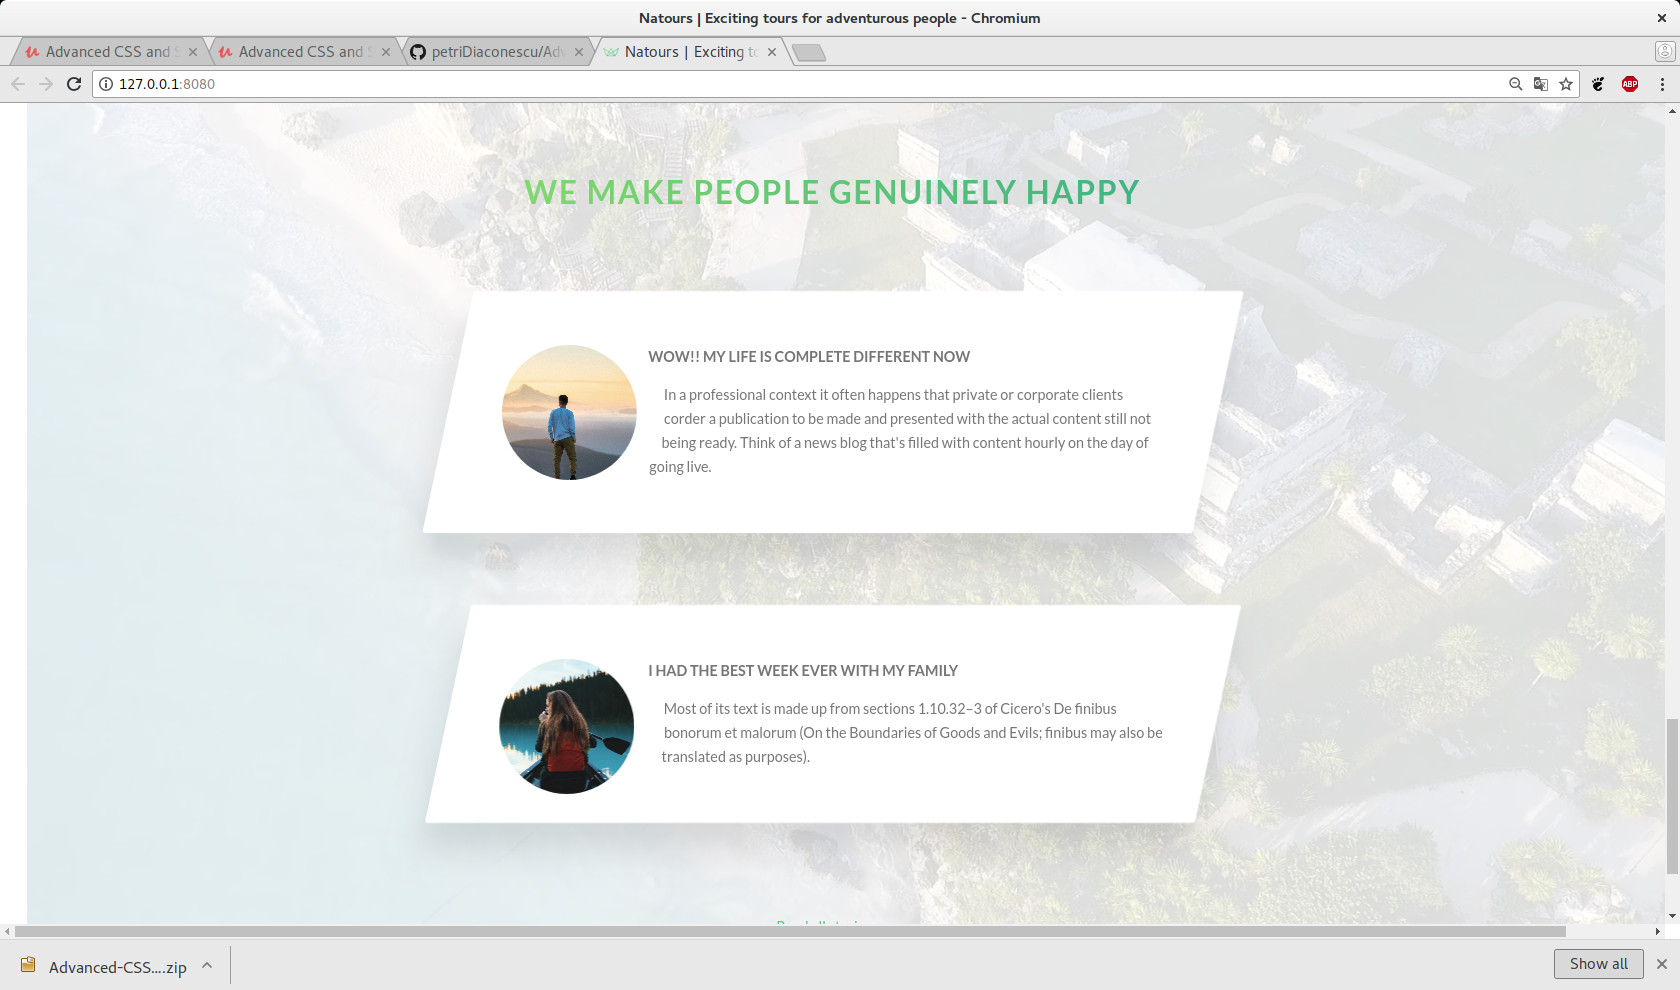
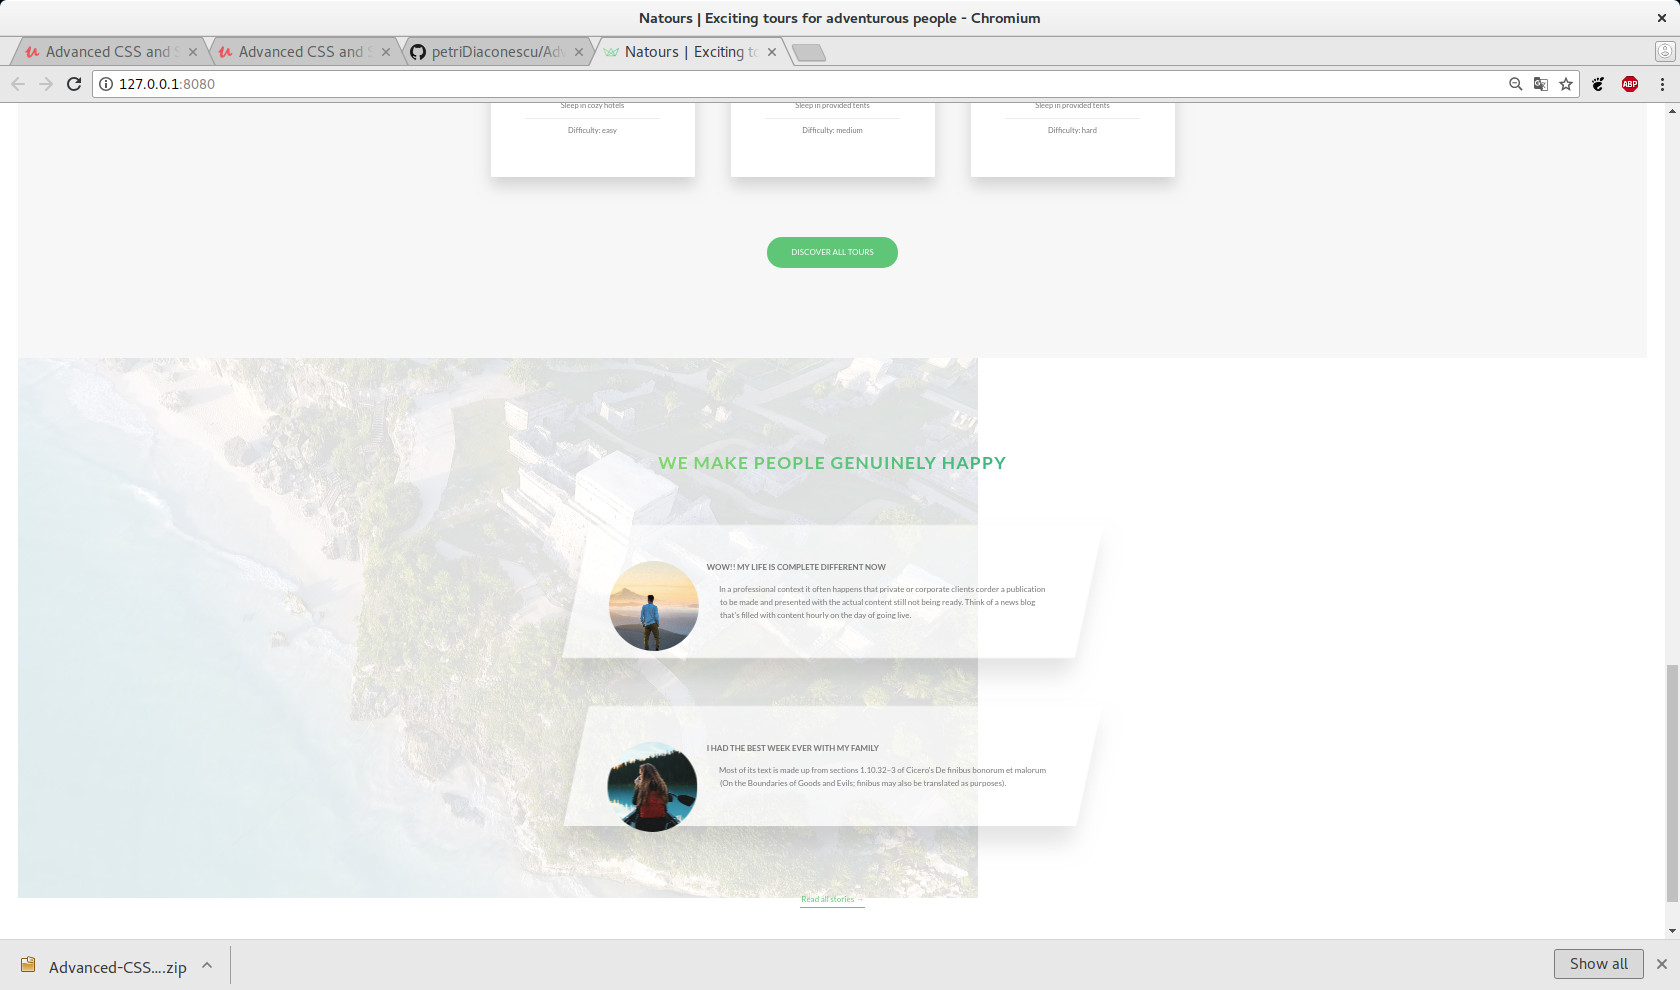
Make video background to ocupy the entire space of the section.

diff --git a/sass/components/_bg-video.scss b/sass/components/_bg-video.scss
@@ -6,4 +6,9 @@
   height: 100%;
   z-index: -1;
   opacity: .15;
+  
+  &__content {
+    width: 100%;
+    height: 100%;
+  }
 }
